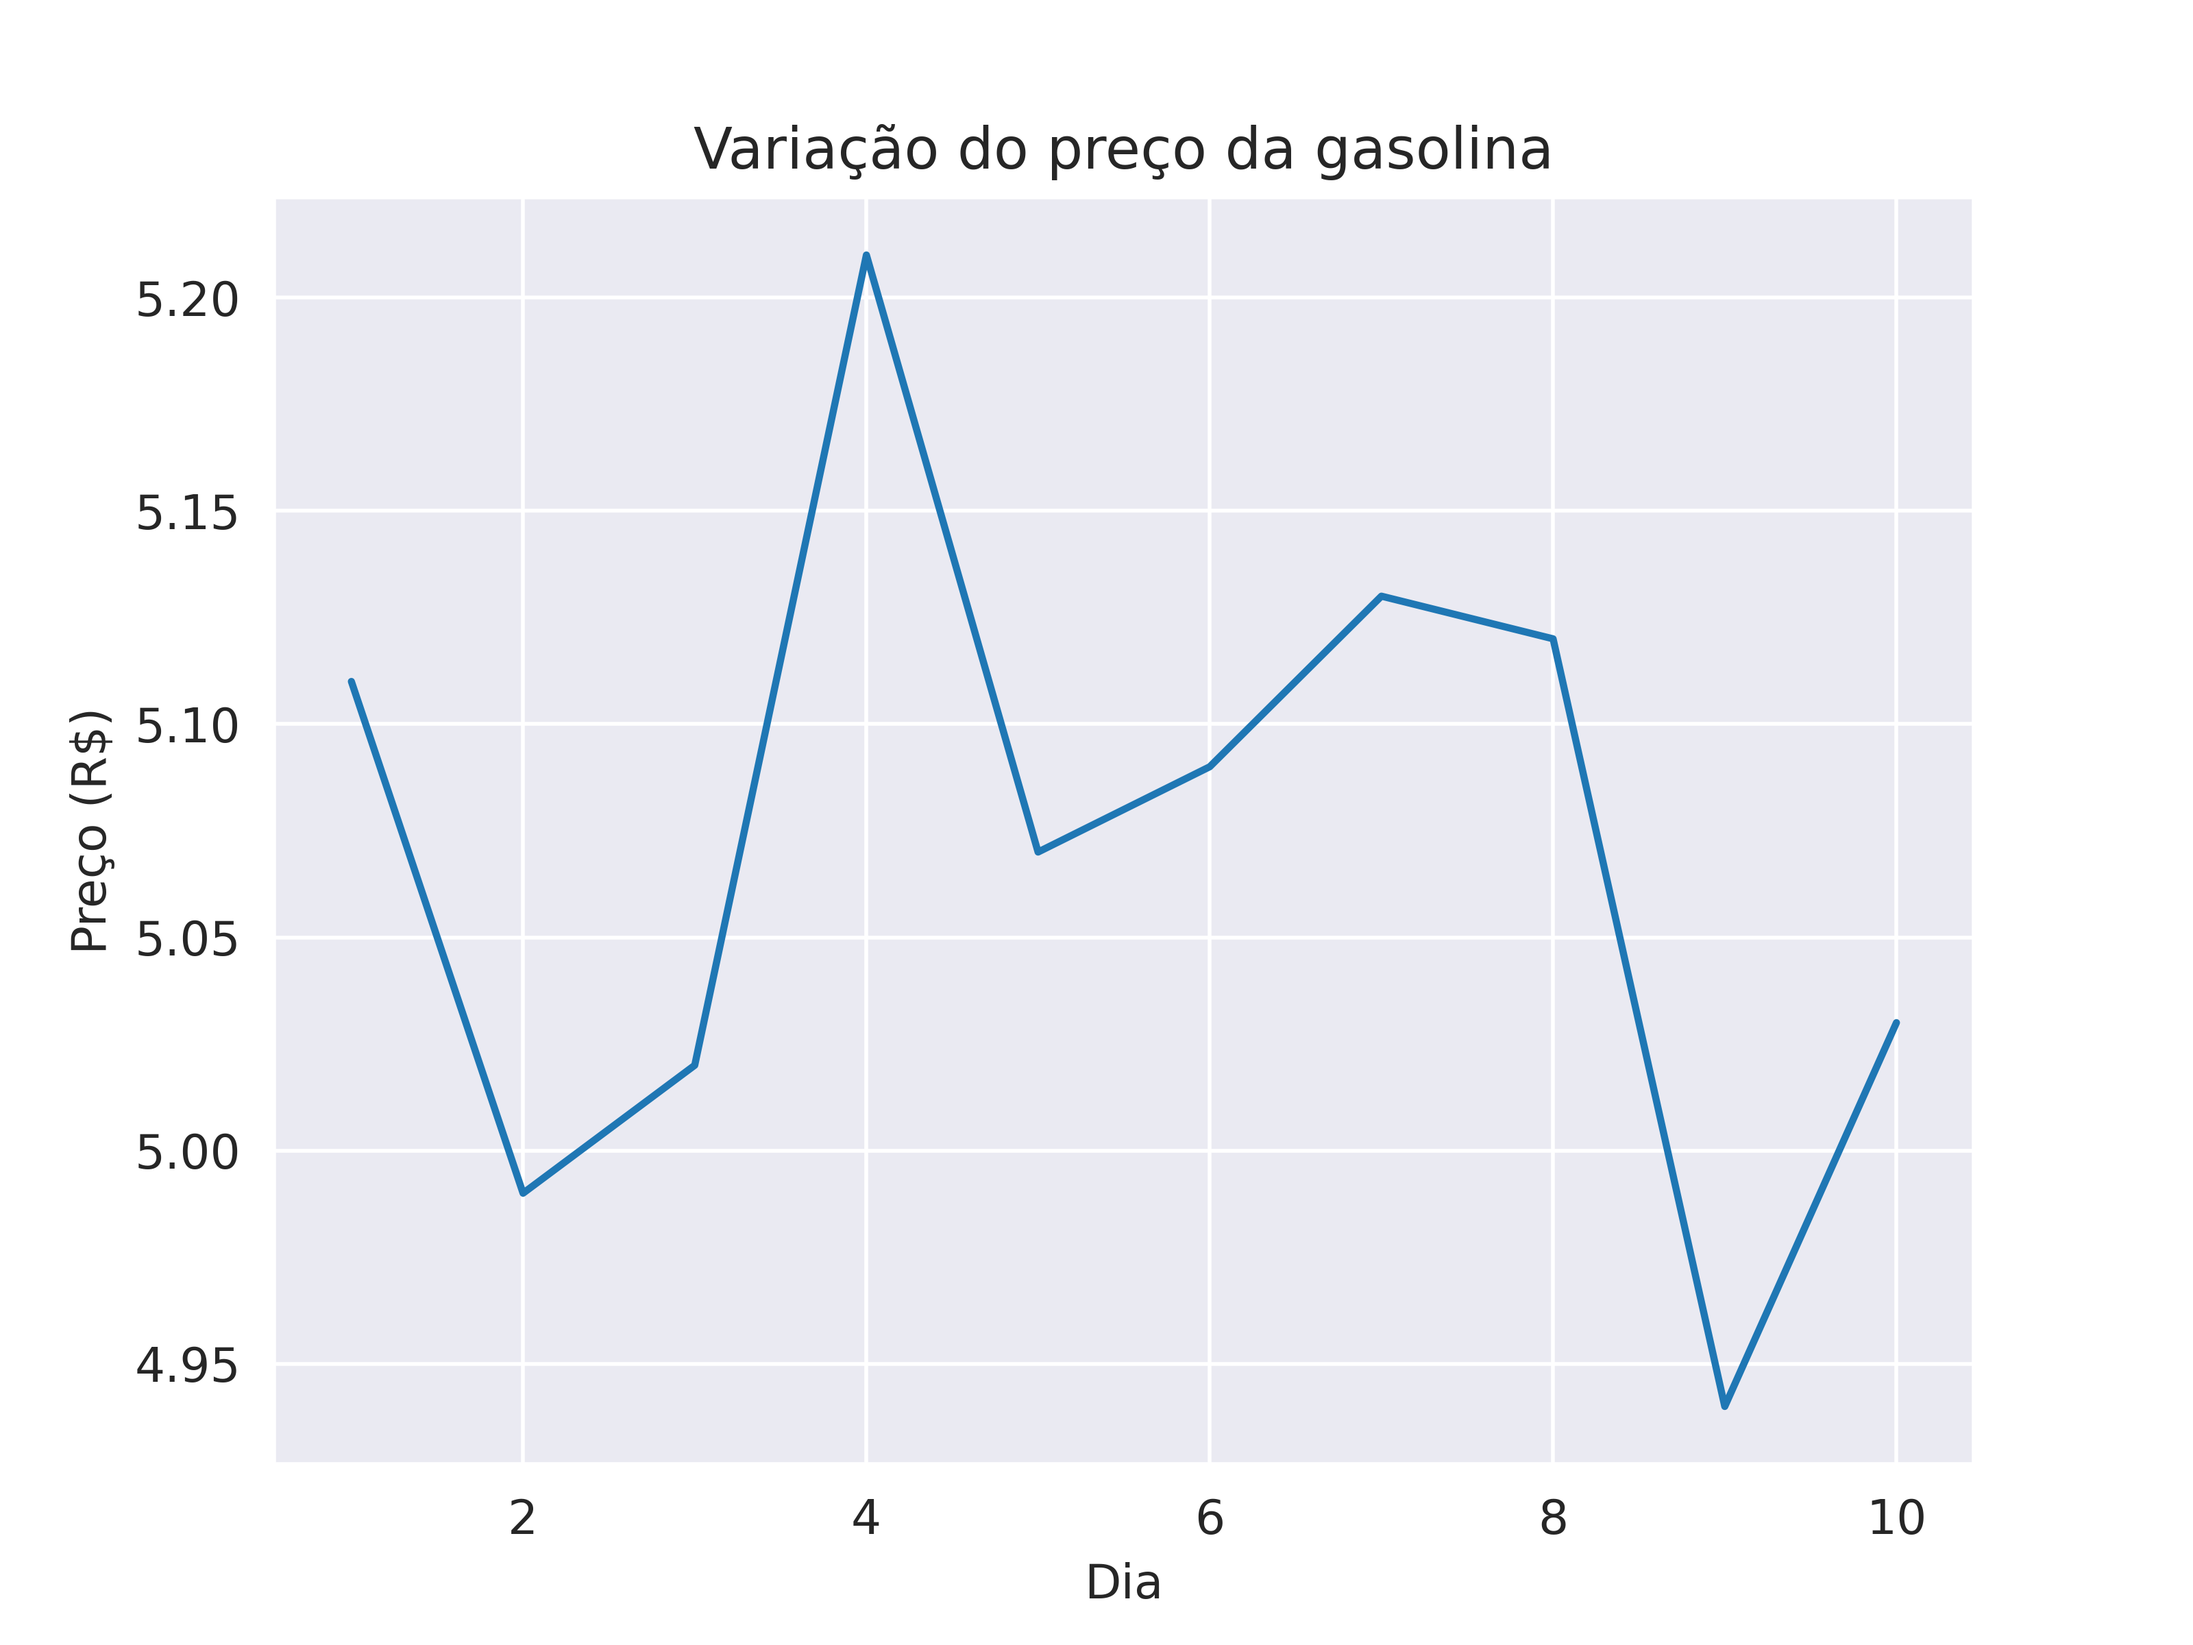
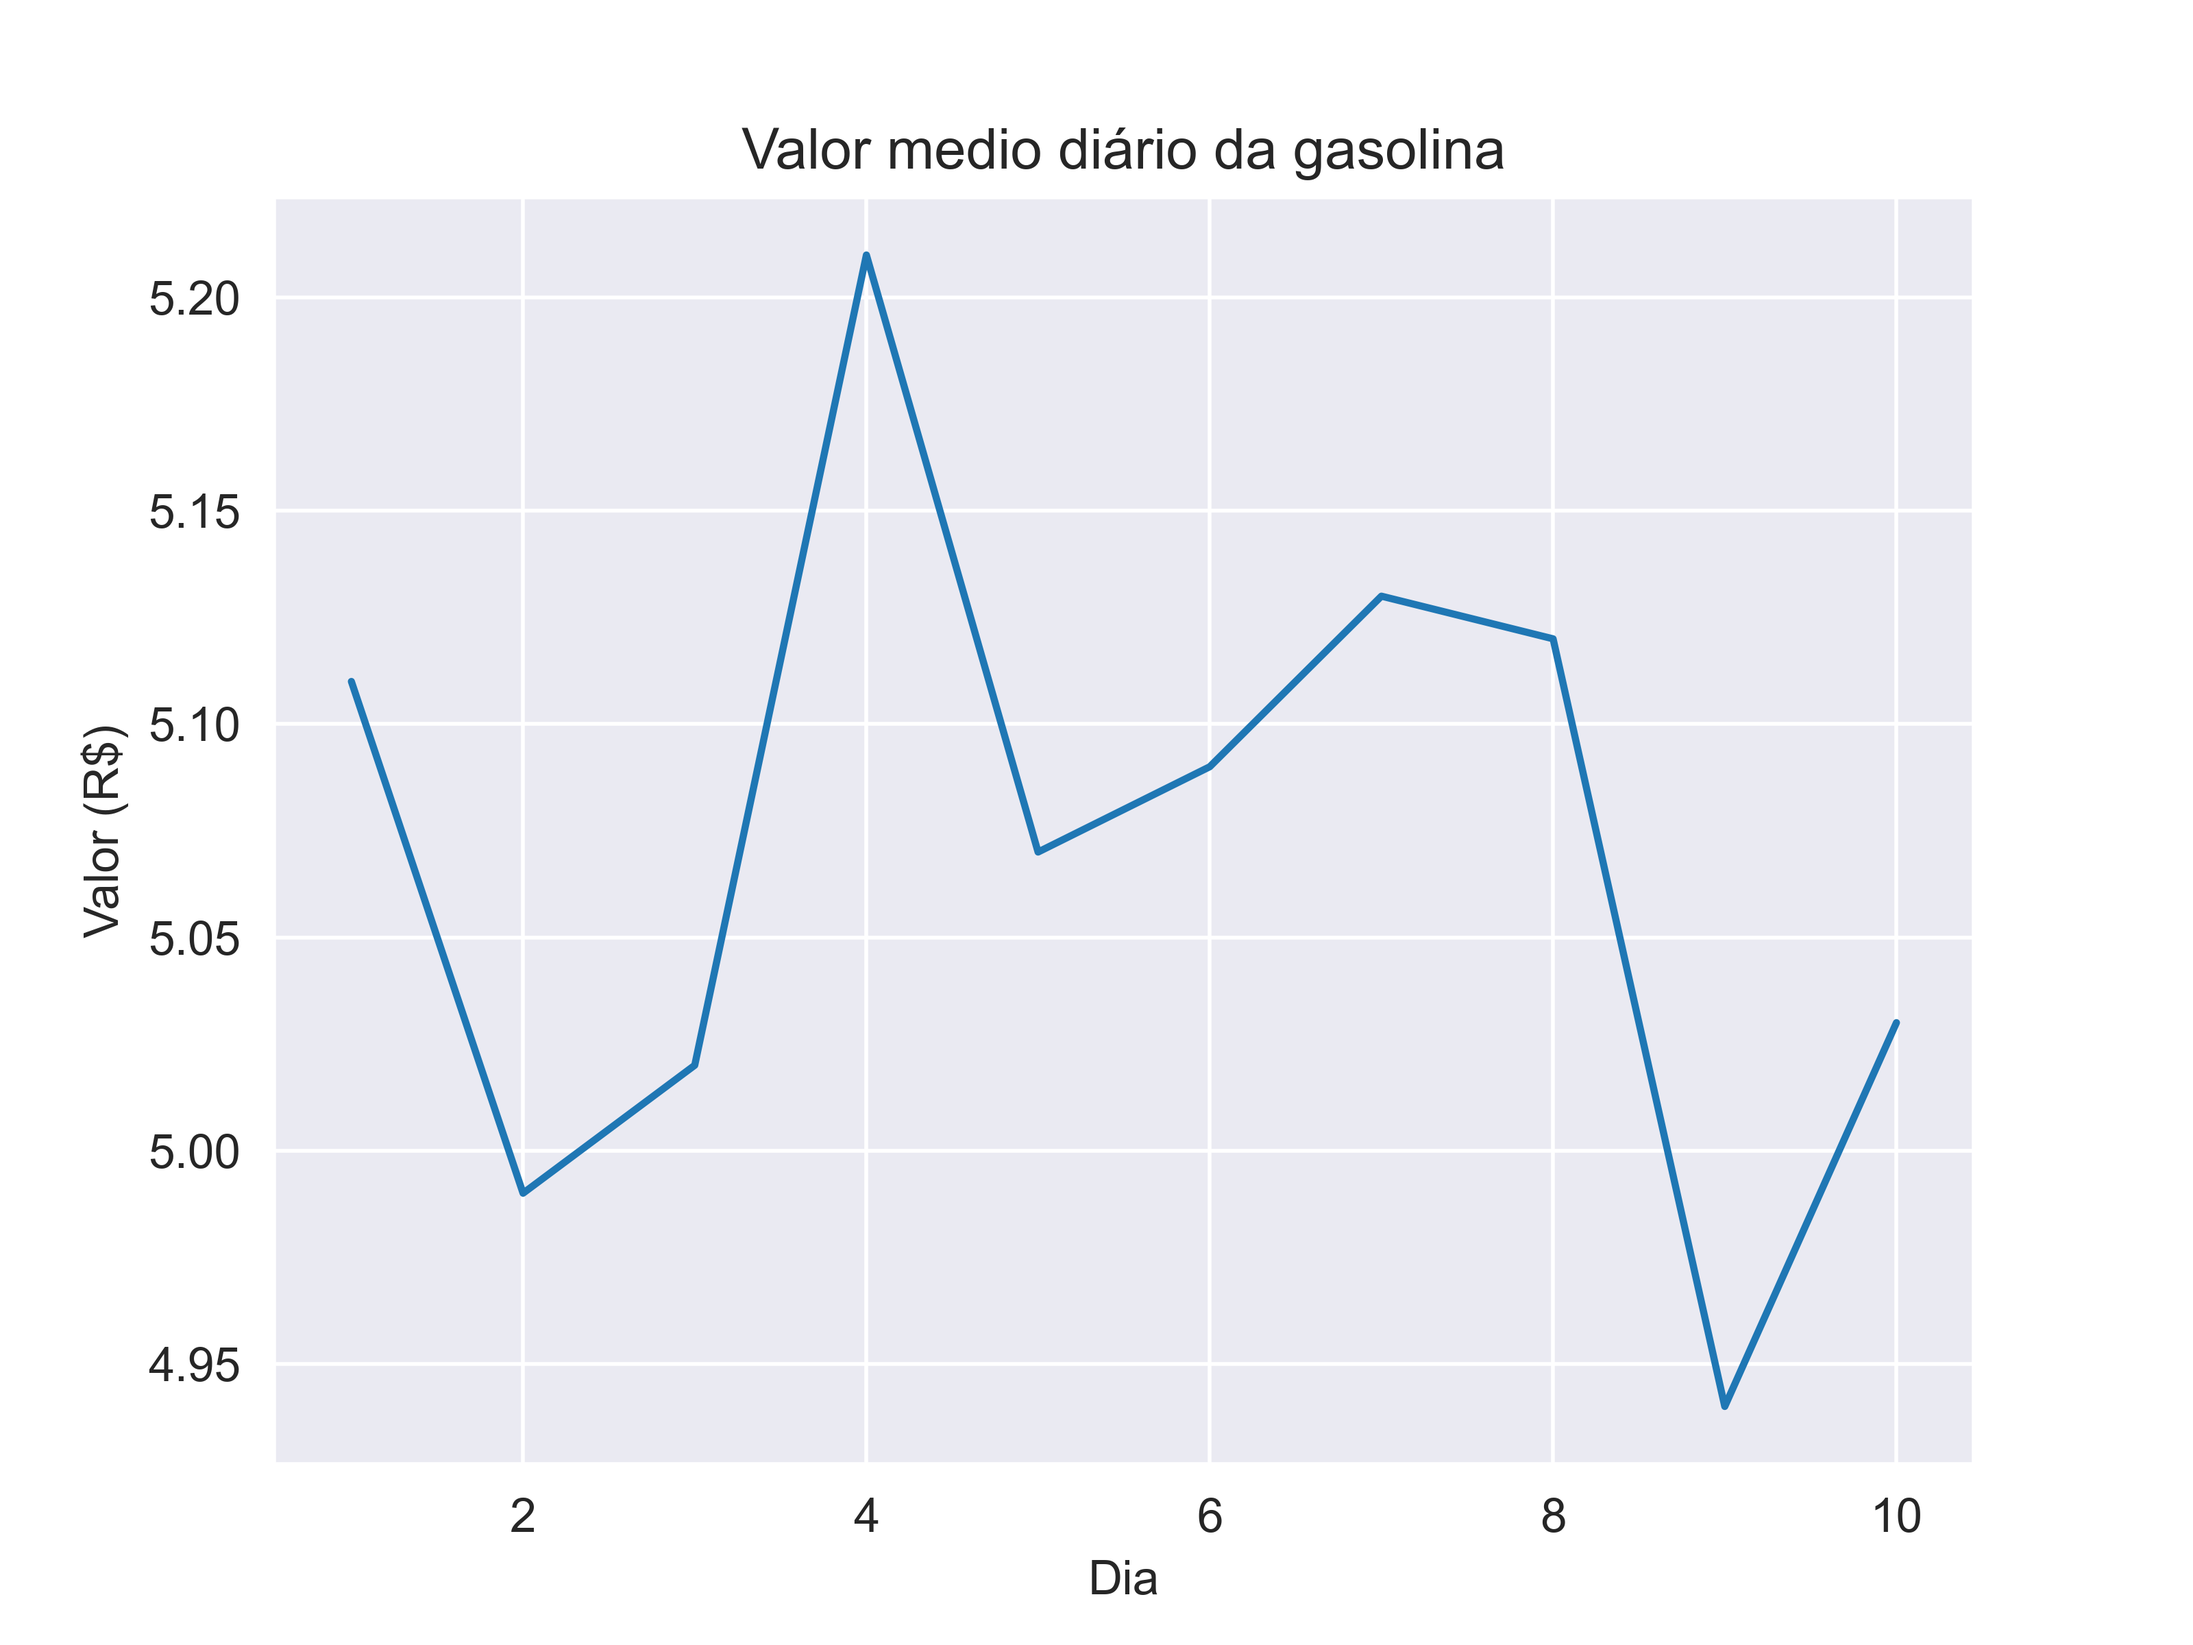
Atualização do gráfico

diff --git a/gasolina.py b/gasolina.py
@@ -1,21 +1,14 @@
-# código de geração do gráfico 
+# código de geração do gráfico
 import pandas as pd
 import seaborn as sns
 
-dados = pd.read_csv('gasolina.csv')
+dados_gasolina = pd.read_csv("gasolina.csv")
 
-with sns.axes_style('darkgrid'):
-  grafico = sns.lineplot(
-      data=dados, 
-      x='dia', 
-      y='venda'
-    )
-  
-  grafico.set(
-      title='Variação do preço da gasolina', 
-      ylabel='Preço (R$)', 
-      xlabel='Dia'
+with sns.axes_style("darkgrid"):
+    grafico = sns.lineplot(data=dados_gasolina, x="dia", y="venda")
+    grafico.set(
+        title="Valor medio diário da gasolina", xlabel="Dia", ylabel="Valor (R$)"
     )
 
-  imagem = grafico.get_figure()    
-  imagem.savefig('variacao_gasolina.png', dpi=500)
+    imagem = grafico.get_figure()
+    imagem.savefig("variacao_gasolina.png", dpi=500)
